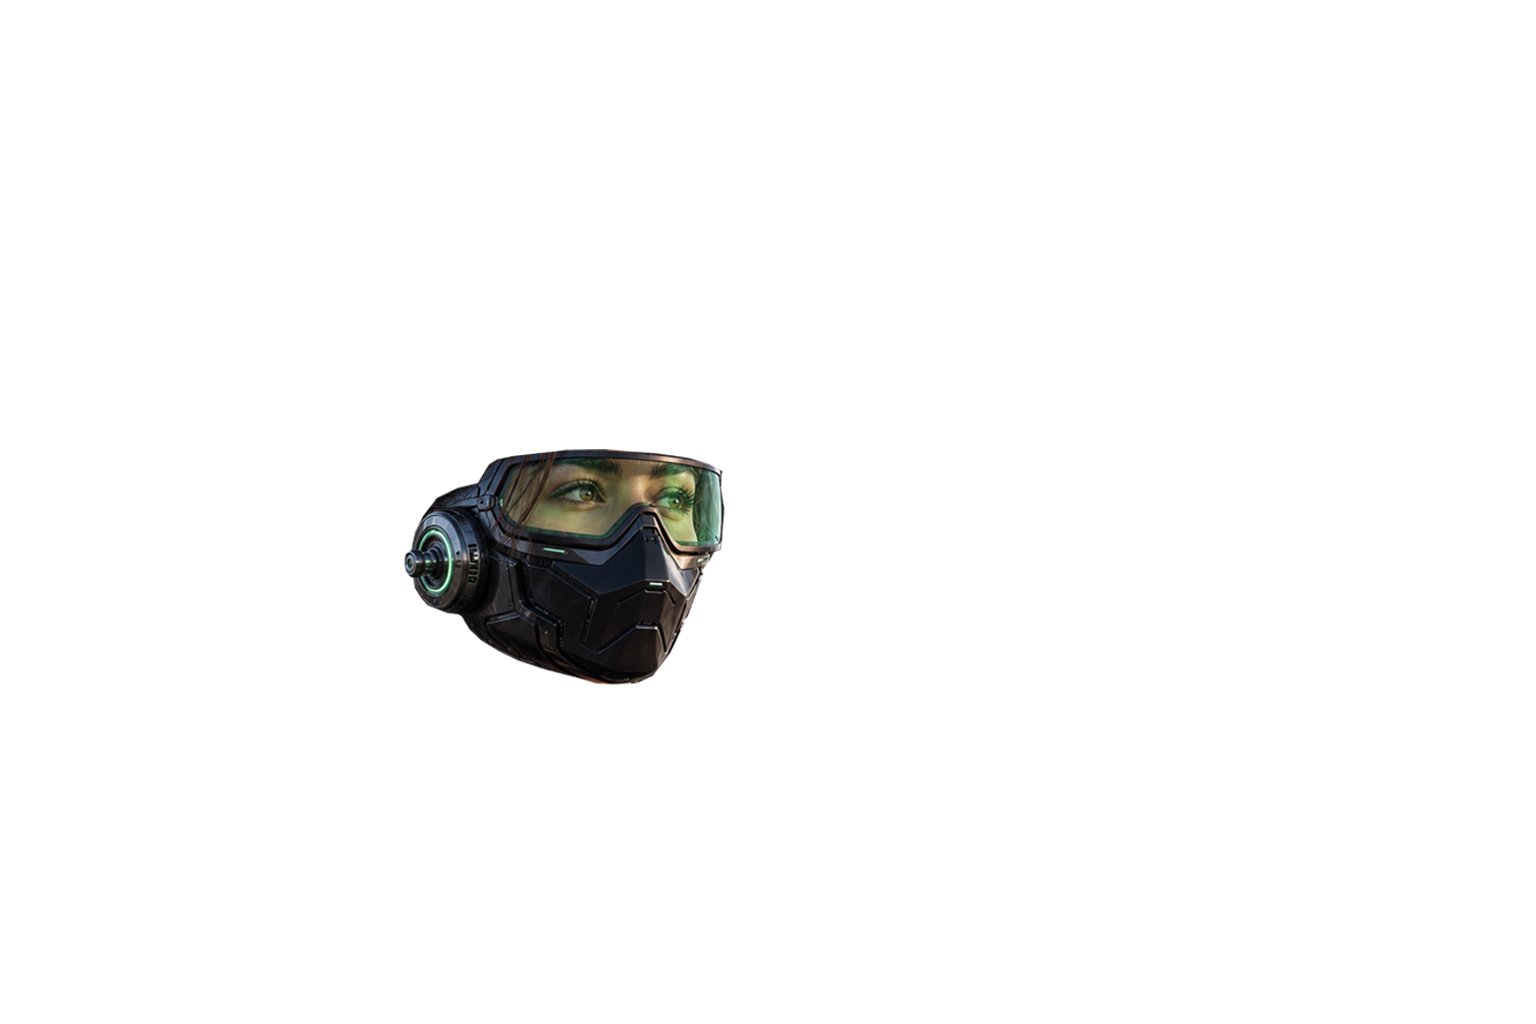
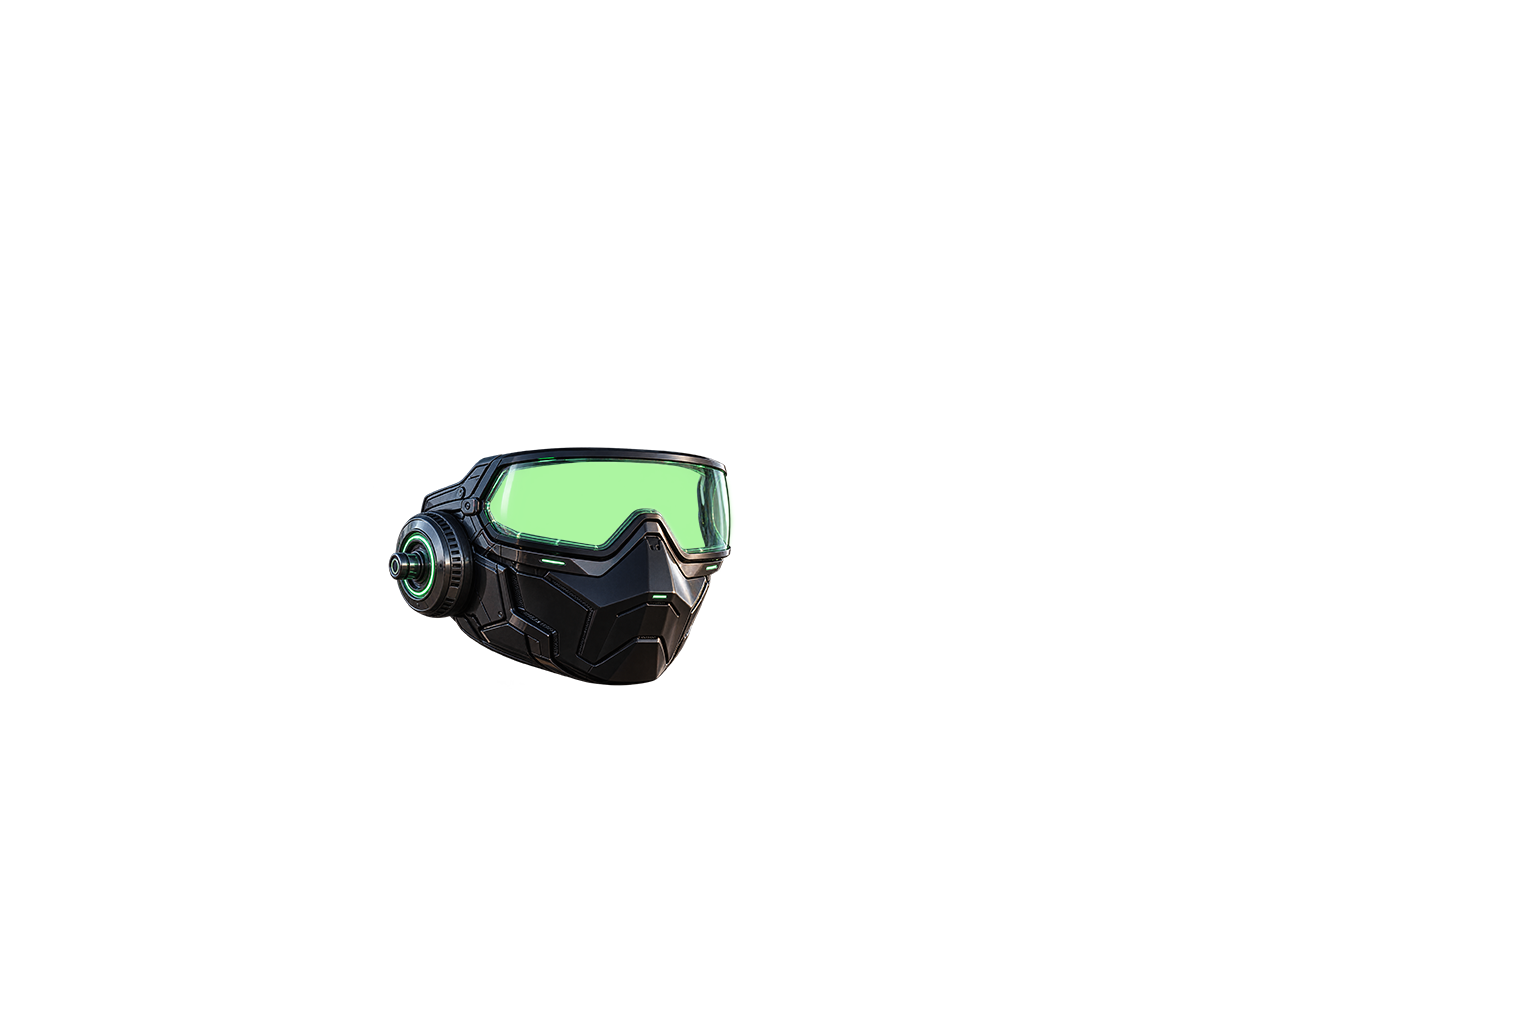
fix: sincroniza luz e profundidade do hero

Changed region(s): [[0.25, 0.4375, 0.5, 0.6875]]

diff --git a/index.html b/index.html
@@ -70,9 +70,7 @@
     .mountain-layer--on{z-index:2;opacity:0;transition:opacity 1.8s cubic-bezier(.16,1,.3,1);filter:drop-shadow(0 0 7px rgba(147,196,76,.18))}
     .mountain-plane--back .mountain-layer--on{filter:blur(.28px) contrast(.99) drop-shadow(0 0 7px rgba(147,196,76,.18))}
     .mountain-plane--middle .mountain-layer--on{filter:blur(.55px) contrast(.985) drop-shadow(0 0 7px rgba(147,196,76,.18))}
-    .mountain-plane--front .mountain-layer--on{transition-delay:0s}
-    .mountain-plane--middle .mountain-layer--on{transition-delay:.22s}
-    .mountain-plane--back .mountain-layer--on{transition-delay:.42s}
+    .mountain-plane--front .mountain-layer--on,.mountain-plane--middle .mountain-layer--on,.mountain-plane--back .mountain-layer--on{transition-delay:0s}
     .hero-stage.is-powered .mountain-layer--on{opacity:1}
     .hero-light{position:absolute;z-index:6;left:84%;top:74%;width:min(60vw,900px);aspect-ratio:1;pointer-events:none;opacity:0;transform:translate(-50%,-50%) scale(.16);background:radial-gradient(circle,rgba(222,255,129,.66) 0,rgba(154,204,78,.22) 13%,rgba(105,144,57,.09) 30%,transparent 67%);mix-blend-mode:screen;filter:blur(9px);transition:opacity .6s ease,transform 2.7s cubic-bezier(.16,1,.3,1)}
     .hero-stage.is-powered .hero-light{opacity:1;transform:translate(-50%,-50%) scale(1.5)}
@@ -246,15 +244,15 @@
   <section class="hero" id="hero">
     <div class="hero-stage" id="heroStage">
       <div class="hero-world">
-        <div class="mountain-plane mountain-plane--back parallax-layer" data-depth=".12" aria-hidden="true">
+        <div class="mountain-plane mountain-plane--back parallax-layer" data-depth=".07" aria-hidden="true">
           <img class="mountain-layer mountain-layer--off" src="Hero em camadas/Montanha-3---SEM-COR.png" alt="" fetchpriority="high" />
           <img class="mountain-layer mountain-layer--on" src="Hero em camadas/Montanha-3---COR.png" alt="" fetchpriority="high" />
         </div>
-        <div class="mountain-plane mountain-plane--middle parallax-layer" data-depth=".28" aria-hidden="true">
+        <div class="mountain-plane mountain-plane--middle parallax-layer" data-depth=".18" aria-hidden="true">
           <img class="mountain-layer mountain-layer--off" src="Hero em camadas/Montanha-2---SEM-COR.png" alt="" />
           <img class="mountain-layer mountain-layer--on" src="Hero em camadas/Montanha-2---COR.png" alt="" />
         </div>
-        <div class="mountain-plane mountain-plane--front parallax-layer" data-depth=".46" aria-hidden="true">
+        <div class="mountain-plane mountain-plane--front parallax-layer" data-depth=".44" aria-hidden="true">
           <img class="mountain-layer mountain-layer--off" src="Hero em camadas/Montanha-1---SEM-COR.png" alt="" />
           <img class="mountain-layer mountain-layer--on" src="Hero em camadas/Montanha-1---COR.png" alt="" />
         </div>
